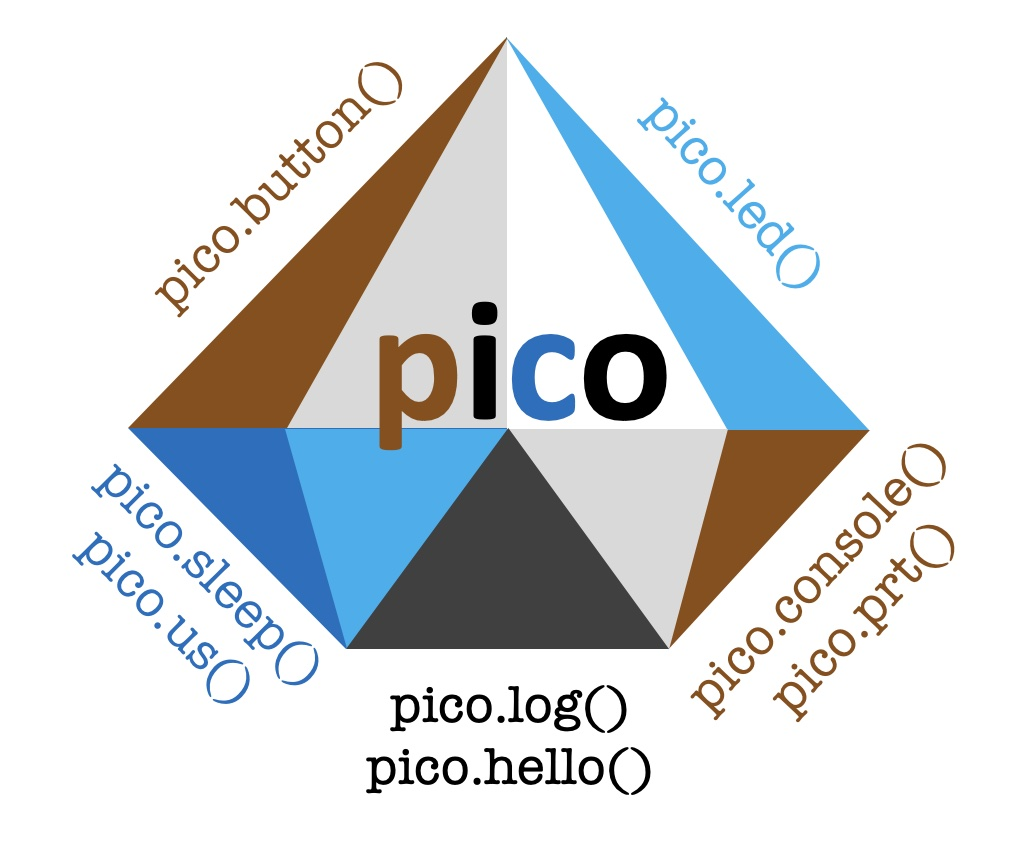
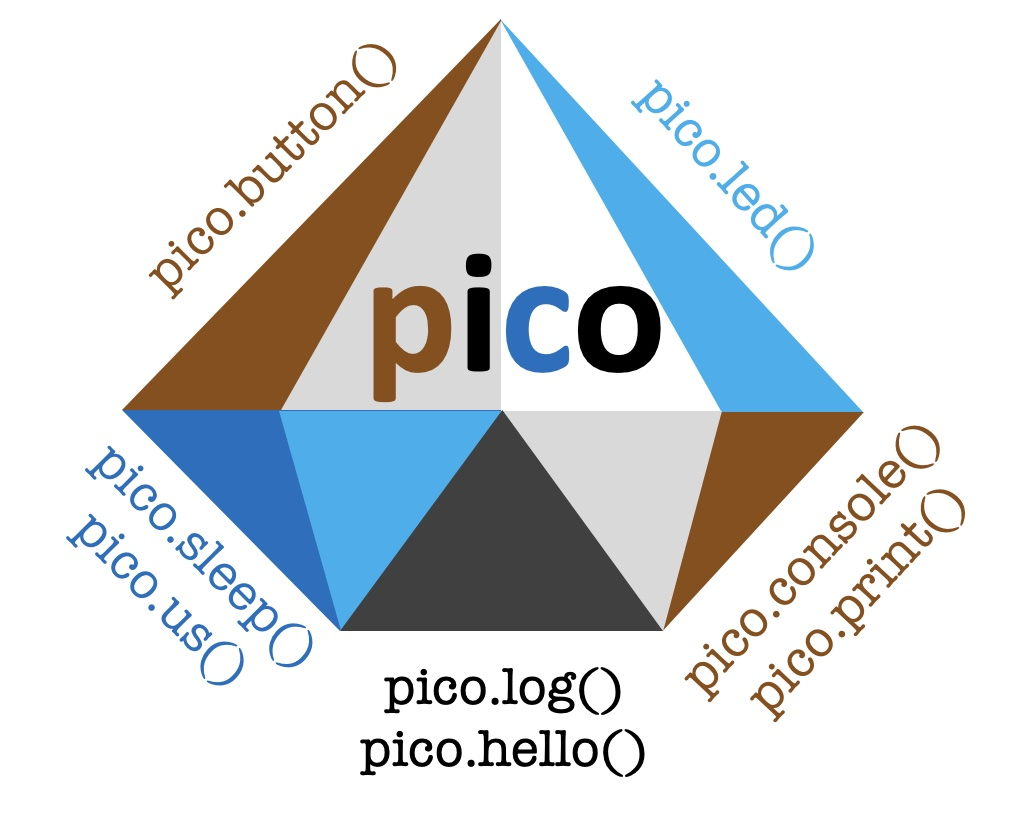
pimping samples

diff --git a/include/zephyr/pico/console.h b/include/zephyr/pico/console.h
@@ -37,28 +37,27 @@ typedef void (*_PI_vprt_)(PI_txt fmt, va_list ap);
 static inline void pi_prt(PI_txt fmt,...);
 static inline void _vprt_init_(PI_txt fmt, va_list ap);
 
-static inline _PI_vprt_* _vprt_(void)
+static inline _PI_vprt_* _vprint_(void)
 {
-  static _PI_vprt_ vprt = _vprt_init_;
-  return &vprt;
+  static _PI_vprt_ vprint = _vprintt_init_;
+  return &vprint;
 }
 
 static inline void _vprt_init_(PI_txt fmt, va_list ap)
 {
-  *_vprt_() = vprintk; // use now vprintk
-  pi_console(true);    // wait for ready
-  vprintk(fmt,ap);     // our original task
+  *_vprint_() = vprintk; // use now vprintk
+  pi_console(true);      // wait for ready
+  vprintk(fmt,ap);       // our original task
 }
 
-static inline void pi_vprt(PI_txt fmt,va_list ap)
+static inline void pi_vprint(PI_txt fmt,va_list ap)
 {
-  (*_vprt_())(fmt, ap);
+  (*_vprint_())(fmt, ap);
 }
 
-static inline void pi_prt(PI_txt fmt,...)
+static inline void pi_print(PI_txt fmt,...)
 {
   va_list ap;
-	va_start(ap,fmt); pi_vprt(fmt, ap);	va_end(ap);
+	va_start(ap,fmt); pi_vprint(fmt, ap);	va_end(ap);
 }
-
 #endif // __PICO_CONSOLE__

diff --git a/include/zephyr/pico/api.h b/include/zephyr/pico/api.h
@@ -14,7 +14,7 @@ extern "C" {
 
   typedef struct PI_api {
     int (*console)(bool wait);
-    void (*prt)(PI_txt fmt,...);
+    void (*print)(PI_txt fmt,...);
     void (*sleep)(PI_ms ms);
     PI_us (*us)(void);
     void (*log)(int lvl,PI_txt fmt,...);
@@ -31,12 +31,12 @@ extern "C" {
   static inline PI_api* _pi_api_(void)
   {
     static PI_api pico = {
-      .console=pi_console, .prt=pi_prt,
+      .console=pi_console, .print=pi_print,
       .sleep=pi_sleep, .us=pi_us,
       .log=pi_log, .hello=pi_hello,
       .led=pi_led, .button=pi_button,
       .clock=pi_clock, .now=pi_now,
-      .vprt=pi_vprt, .vlog=pi_vlog,
+      .vprint=pi_vprint, .vlog=pi_vlog,
     };
     return &pico;
   }

diff --git a/study/02-api-zephyr/01-numbers/src/main.c b/study/02-api-zephyr/01-numbers/src/main.c
@@ -3,8 +3,8 @@
 
 int main(void)
 {
-  pico.prt(PI_R PROJECT " (board %s)\n" PI_0,CONFIG_BOARD);
+  pico.print(PI_R PROJECT " (board %s)\n" PI_0,CONFIG_BOARD);
 
 	for (int i=0;;i++,pico.sleep(500*1000))
-    pico.prt("number: %s%d\n" PI_0,i%5?PI_G:PI_R,i);
+    pico.print("number: %s%d\n" PI_0,i%5?PI_G:PI_R,i);
 }

diff --git a/include/zephyr/pico/led.h b/include/zephyr/pico/led.h
@@ -10,7 +10,7 @@
 
 typedef const struct gpio_dt_spec PI_led; // shorthand
 
-static inline PI_led *_pi_led_ptr_(int i) // internal helper
+static inline PI_led *_pi_led_ptr_(int i) // helper
 {
   static PI_led ds[] = {
     #if DT_NODE_HAS_STATUS(LED0, okay)

diff --git a/samples/01-hello/src/main.c b/samples/01-hello/src/main.c
@@ -1,0 +1,7 @@
+// main.c - 01-hello
+#include "pico/api.h"
+
+void main(void)
+{
+  pico.print("hello, world\n");
+}

diff --git a/samples/01-hello/README.md b/samples/01-hello/README.md
@@ -39,12 +39,12 @@ The sample has support for the following boards:
 ## The Sample Code
 
 ```
-   // main.c - 00-hello-pico
+   // main.c - 01-hello
    #include "pico/api.h"
 
    void main(void)
    {
-     pico.prt("hello, pico!\n");
+     pico.print("hello, world\n");
    }
 ```
 
